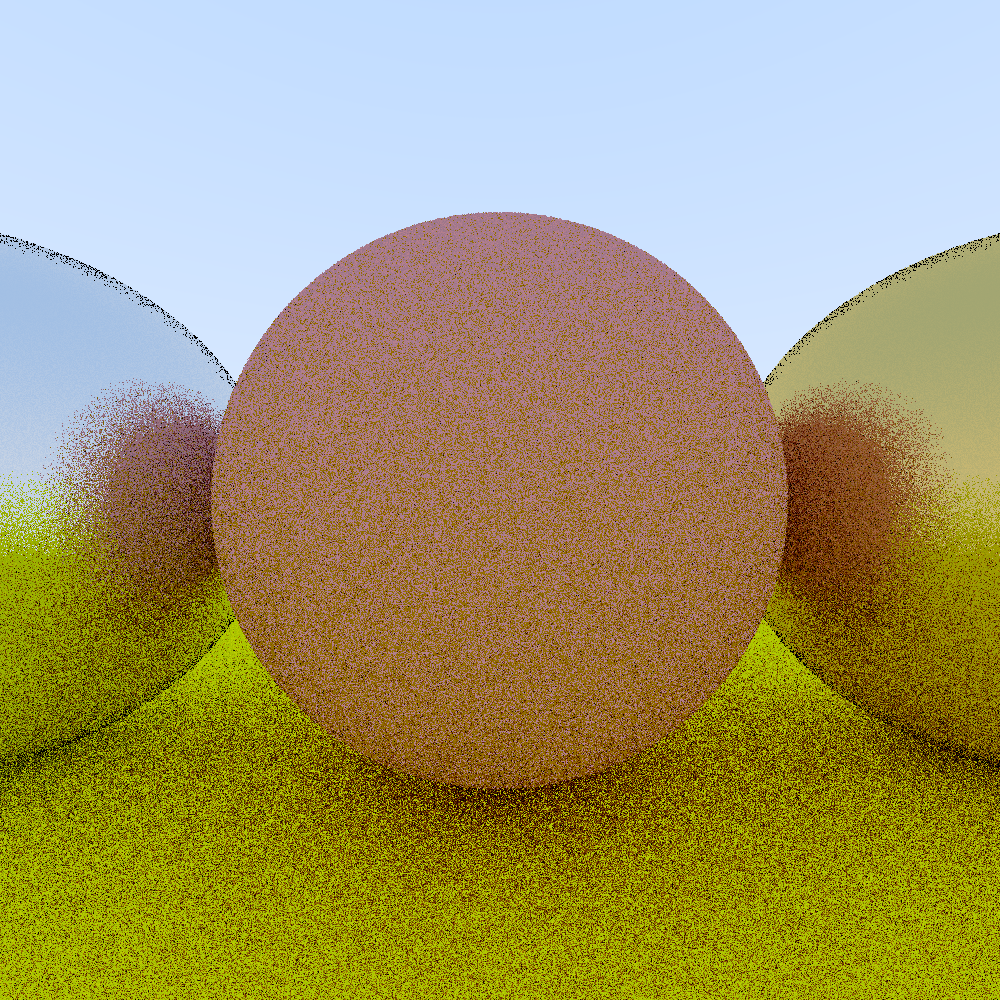
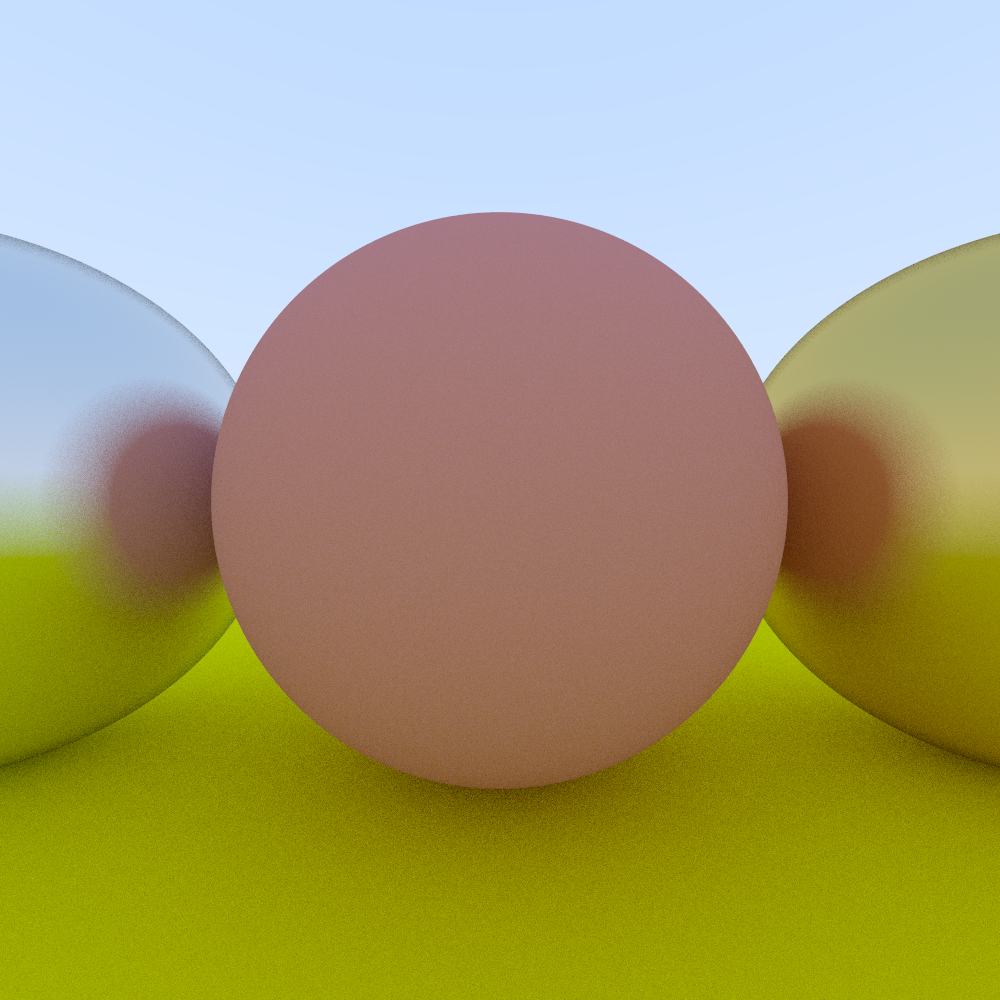
forgot to delete test.png from git 💀 also this code is fast

diff --git a/src/main.rs b/src/main.rs
@@ -32,7 +32,7 @@ fn main() -> Result<()> {
     if image_height % 2 != 0 {
         panic!("image height must be even");
     }
-    let samples_per_pixel = 1;
+    let samples_per_pixel = 50;
     let max_depth = 50;
     // World
     let mut world = HittableList::new();
@@ -40,6 +40,10 @@ fn main() -> Result<()> {
     let material_center = Box::new(Lambertian::new(Color::new(0.7, 0.3, 0.3)));
     let material_left = Box::new(Metal::new(Color::new(0.8, 0.8, 0.8), 0.3));
     let material_right = Box::new(Metal::new(Color::new(0.8, 0.6, 0.2), 0.3));
+    println!(
+        "Rendering at resolution {}x{} with {} samples and max recurse {}",
+        image_width, image_height, samples_per_pixel, max_depth
+    );
     let bar = Arc::new(Mutex::new(
         ProgressBar::new(image_width as u64 * image_height as u64).with_style(
             ProgressStyle::default_bar().template(
@@ -112,7 +116,11 @@ fn main() -> Result<()> {
     });
     bar.lock().unwrap().finish();
     let elapsed = now.elapsed();
-    println!("Took {}s", elapsed.as_secs_f64());
+    println!(
+        "Took {}s at {} pixels per second",
+        elapsed.as_secs_f64(),
+        bar.lock().unwrap().per_sec()
+    );
     {
         image
             .lock()
